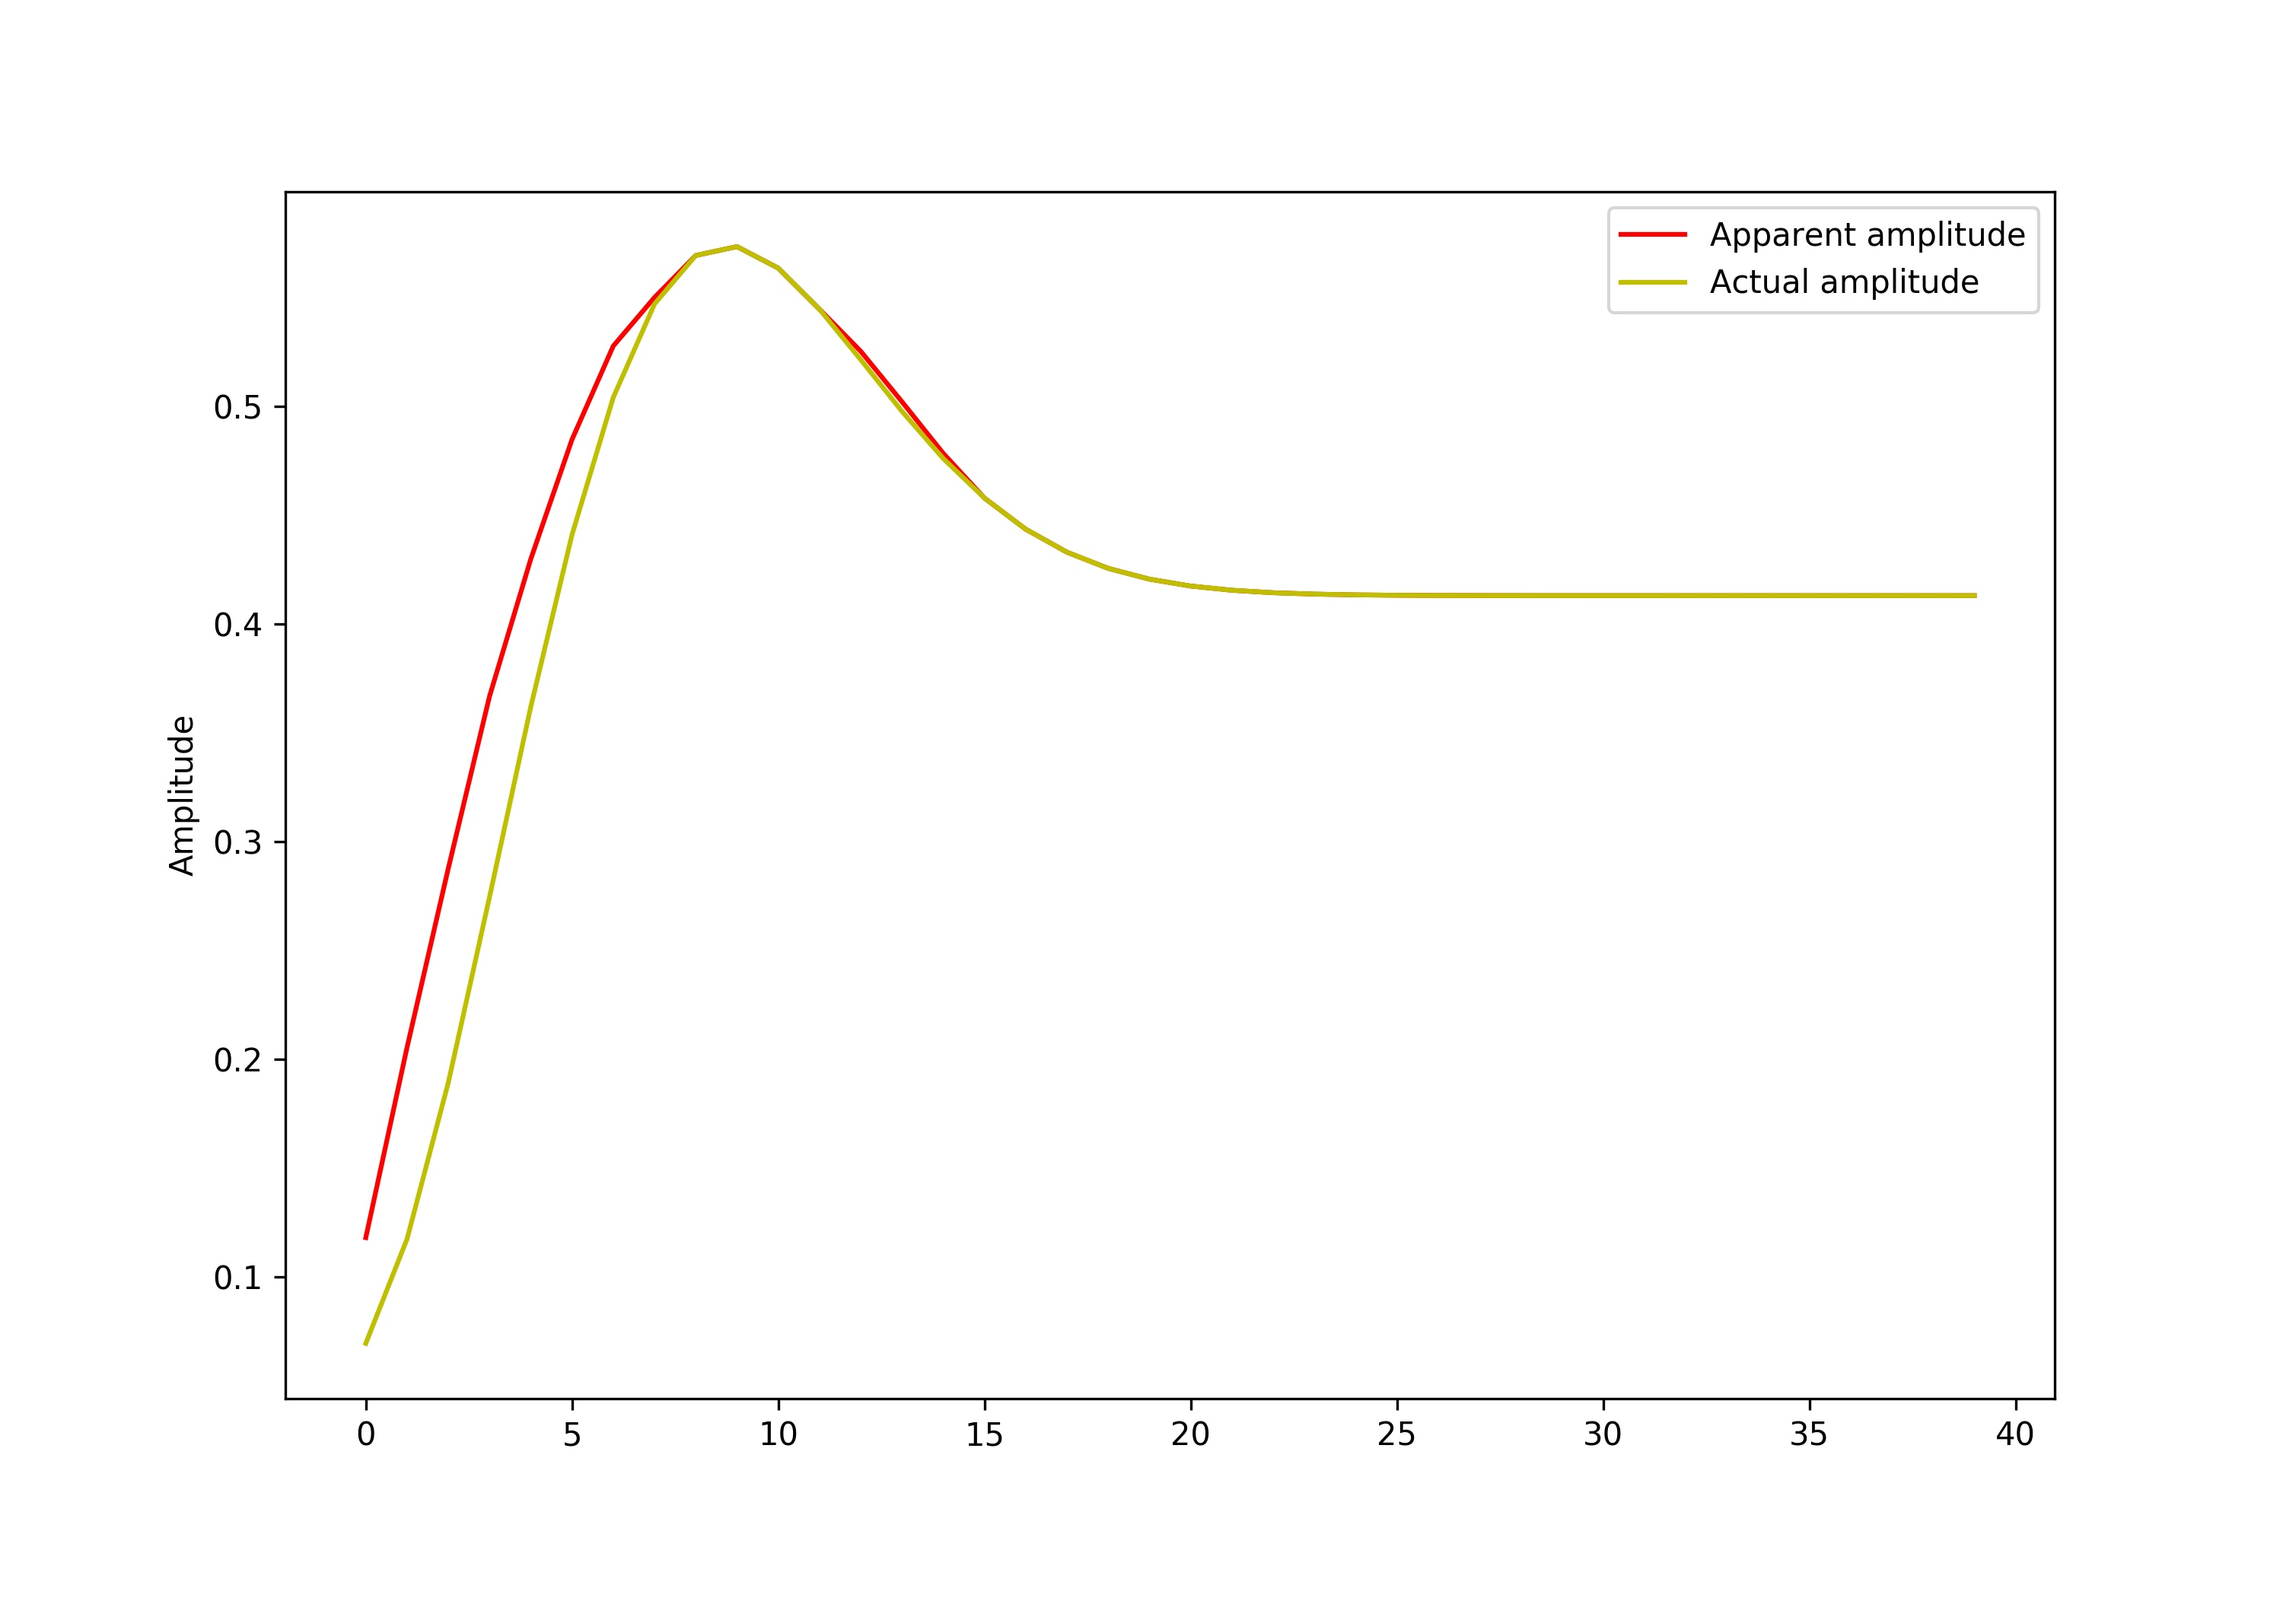
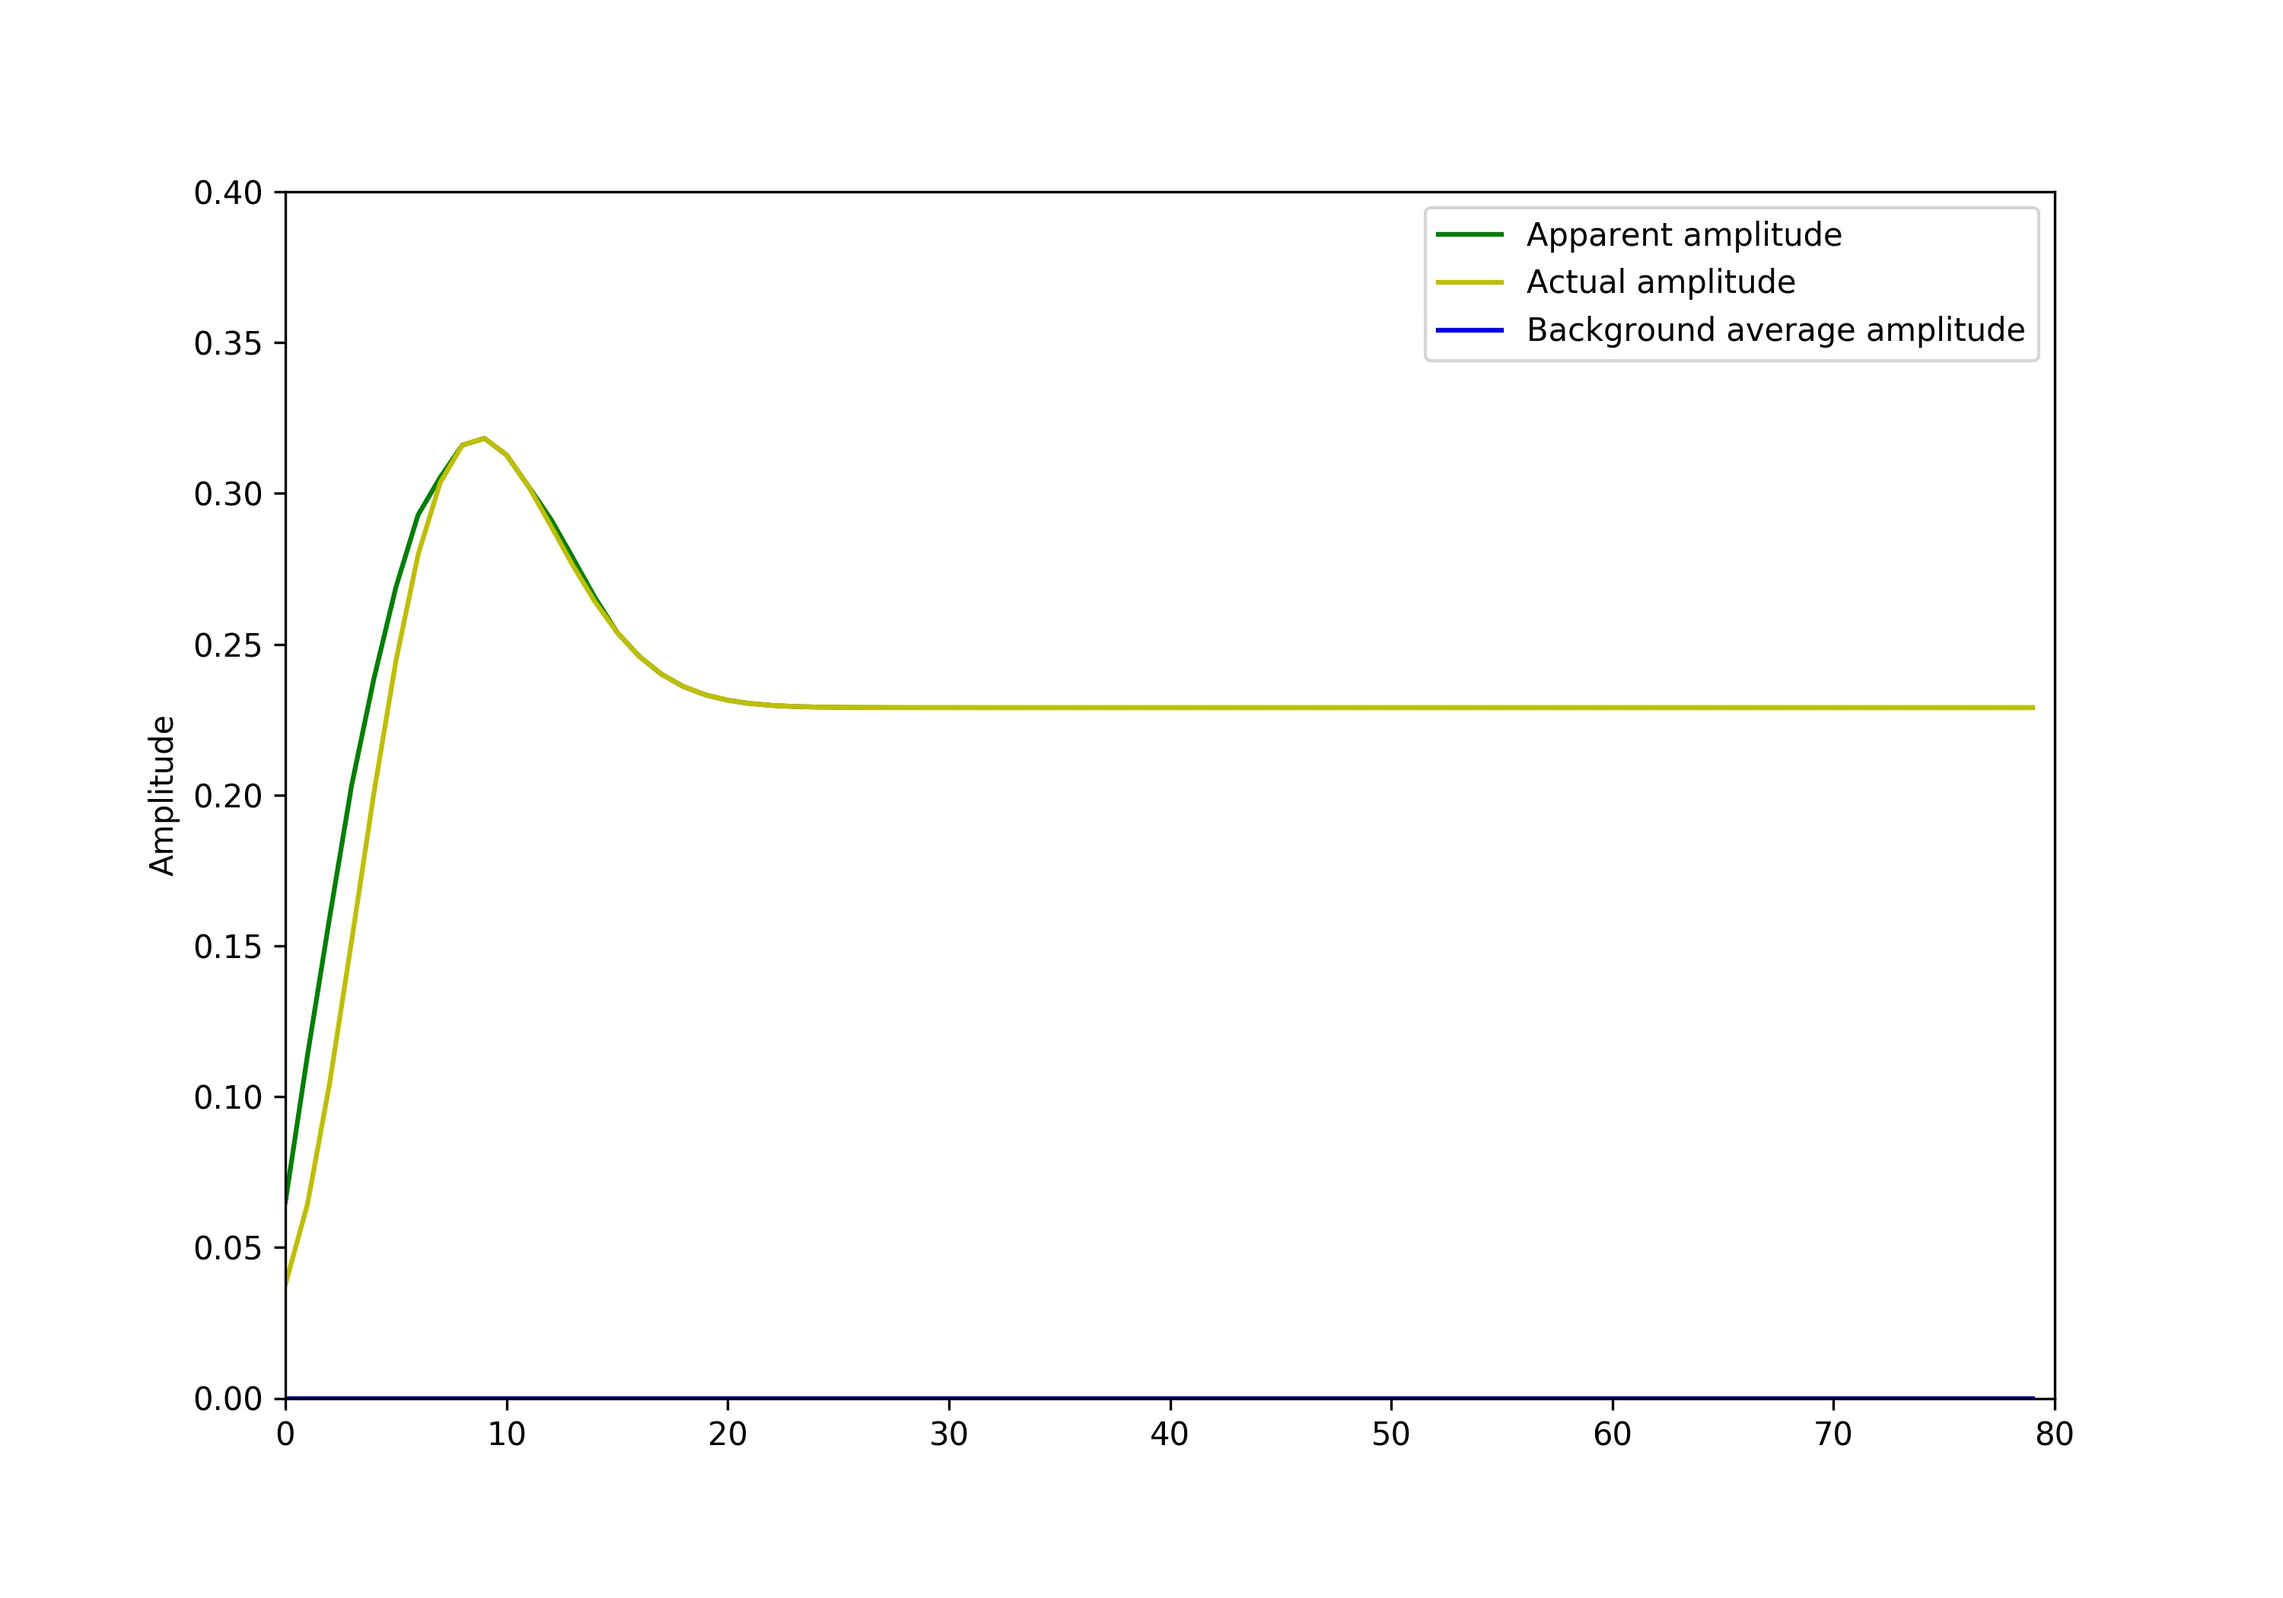
Messed around with figures a bit. Changed a few of the algorithms for finding the peak amplitude to restrict them within a window around the top sill.

diff --git a/seismic_wedge.py b/seismic_wedge.py
@@ -15,7 +15,7 @@ import matplotlib.pyplot as plt
 import bruges 
 from skimage.util import random_noise as random_noise
 
-length, depth = 40, 100
+length, depth = 80, 200
 model = 1  + np.tri(depth, length, k=-depth//3, dtype=int)
 model[0:depth//3,:] = 0
 
@@ -32,20 +32,21 @@ rocks = np.array([[2700, 2750],  # Vp, rho
 earth = rocks[model]
 
 # Add noise to the model 
-noise_amount = 0.1  # multiplied by the variance, so 1 = the var. 
+noise_amount = 0.0  # multiplied by the variance, so 1 = the var. 
 Vp_noise = random_noise(earth[:,:,0], mode='gaussian', clip=False, seed=11, mean=np.mean(earth[:,:,0]), var=np.var(earth[:,:,0])*noise_amount)
 earth[:,:,0] = np.divide(np.add(earth[:,:,0], Vp_noise),2)
 rho_noise = random_noise(earth[:,:,1], mode='gaussian', clip=False, seed=11, mean=np.mean(earth[:,:,1]), var=np.var(earth[:,:,1])*noise_amount)
 earth[:,:,1] = np.divide(np.add(earth[:,:,1], rho_noise),2)
 
 
-f, (ax1, ax2) = plt.subplots(2, 1, sharex=True)
-m1 = ax1.imshow(earth[:,:,0], cmap='viridis')
-ax1.set_title(r'$V_p$')
-f.colorbar(m1, ax=ax1)
-m2=ax2.imshow(earth[:,:,1], cmap='plasma')
-ax2.set_title(r'$\rho$')
-f.colorbar(m2, ax=ax2)
+plt.imshow(earth[:,:,0], cmap='viridis', aspect=0.2)
+plt.title(r'$V_p$')
+plt.colorbar(shrink=0.65)
+plt.show()
+
+plt.imshow(earth[:,:,1], cmap='plasma', aspect=0.2)
+plt.title(r'$\rho$')
+plt.colorbar(shrink=0.65)
 plt.show()
 
 imp = np.apply_along_axis(np.product, -1, earth)
@@ -71,33 +72,39 @@ synth = np.apply_along_axis(lambda t: np.convolve(t, w, mode='same'),
                             axis=0,
                             arr=rc)
 
-plt.imshow(synth, cmap="Greys", aspect=0.2)
+plt.imshow(synth, cmap="seismic", aspect=0.2)
 plt.show()
 
 # We can exploit the fact taht the reflections have the largest and smallest
 # values at the top and bottom of the wedge, to find the amplitudes of the reflections
 # at the peak. 
 # Find the max of the columns (corresponding to the reflection at the top of the sill)
-apparent = np.amax(synth, axis=0)
+apparent = np.amax(synth[50:75,:], axis=0)
 actual = synth[depth//3, :]
+background = np.average(np.absolute(synth[0:9,:]), axis=0)
+
 
 plt.figure(figsize=(10,7))
-plt.plot(apparent, 'r-', label='Apparent amplitude')
+plt.plot(apparent, 'g-', label='Apparent amplitude')
 plt.plot(actual, 'y-', label='Actual amplitude')
+plt.plot(background, 'b-', label='Background average amplitude')
 plt.ylabel('Amplitude')
+plt.ylim(0,0.4)
+plt.xlim(0,80)
 plt.legend()
 plt.savefig('ch2_synthetic_amplitude_curve.jpg', dpi=300)
 plt.show()
 
-apparent_t = np.argmax(synth, axis=0)
-actual_t = np.argmax(rc, axis=0)
+apparent_t = np.argmax(synth[50:75,:], axis=0) + 50
+#actual_t = np.argmax(rc[50:75,:], axis=0) + 50 # this is correct for complex, but simplter method below
+actual_t = np.repeat(depth//3, length)
 
 # Plot seismic 
 plt.figure(figsize=(10,7))
-plt.imshow(synth, aspect=0.3, cmap='Greys')
+plt.imshow(synth, aspect=0.3, cmap='seismic')
 plt.colorbar(shrink=0.925)
 # Plot location of peak amplitude
-plt.plot(apparent_t, 'r-', label='Apparent amplitude')
+plt.plot(apparent_t, 'g-', label='Apparent amplitude')
 plt.plot(actual_t, 'y-', label='Actual amplitude')
 plt.legend()
 plt.savefig('ch2_synthetic_wedge_seismic.jpg', dpi=300)
@@ -117,7 +124,7 @@ axarr[1, 0].set_title('Acoustic imp.')
 m4 = axarr[1, 1].imshow(rc, cmap='Greys', aspect=0.3)
 f.colorbar(m4, ax=axarr[1, 1])
 axarr[1, 1].set_title('Reflection coeff.')
-# Fine-tune figure; hide x ticks for top plots and y ticks for right plots
+## Fine-tune figure; hide x ticks for top plots and y ticks for right plots
 plt.setp([a.get_xticklabels() for a in axarr[0, :]], visible=False)
 plt.setp([a.get_yticklabels() for a in axarr[:, 1]], visible=False)
 fig = plt.gcf()
